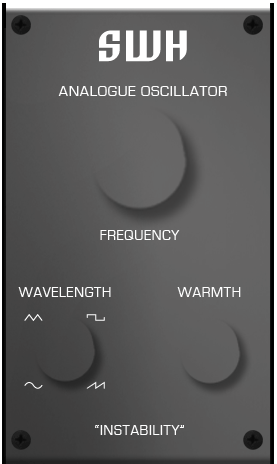
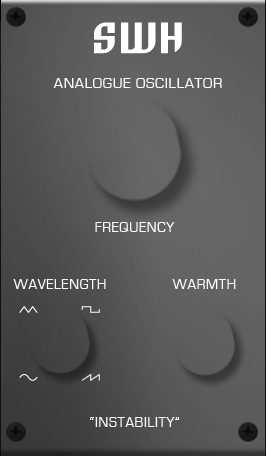
Import fixes from Markus

diff --git a/plugins/delayorama-swh.lv2/modgui/delayorama.css b/plugins/delayorama-swh.lv2/modgui/delayorama.css
@@ -25,10 +25,12 @@
     }
     .swh-delayorama {
         background-image:url(/resources/swh_delayorama.png{{{ns}}}) !important;
+/*
         background-size: 575px 464px;
-        background-position: 15px top;
-        width: 569px;
-        height: 464px;
+*/
+        width: 565px;
+        height: 456px;
+        border-radius: 0;
     }
      .swh-delayorama .mod-control-group {
       top: 0;
@@ -38,21 +40,21 @@
       position: relative;
      }
     .swh-delayorama .mod-control-group#wet {
-      left: 370px;
-      top: 375px;
+      left: 355px;
+      top: 365px;
       position: absolute;
       width: 70px !important;
       height: 70px !important;
     }
 
     .swh-delayorama .mod-control-group.group1 {
-        margin-top: 126px;
-        margin-left: 26px;
+        margin-top: 119px;
+        margin-left: 24px;
         float: left;
         width: 217px !important;
     }
     .swh-delayorama .mod-control-group.group2 {
-        margin-top: 126px;
+        margin-top: 119px;
         margin-left: 23px;
         float: left;
         width: 255px !important;
@@ -111,7 +113,7 @@
       height: 20px;
       width: 50px;
       left: 275px;
-      top: 80px;
+      top: 72px;
 
       overflow: hidden;
     }

diff --git a/plugins/analogue_osc-swh.lv2/modgui/swh_oscillator.css b/plugins/analogue_osc-swh.lv2/modgui/swh_oscillator.css
@@ -28,11 +28,9 @@
     }
     .swh-oscillator {
         background-image:url(/resources/swh_oscillator.png{{{ns}}}) !important;
-        background-size: auto 464px;
         background-repeat: no-repeat;
-        background-position: 15px top;
-        width: 277px;
-        height: 464px;
+        width: 266px;
+        height: 456px;
     }
     .left {
       float: left !important;
@@ -101,7 +99,7 @@
     .swh-oscillator .mod-control-group.top {
       width: 108px !important;
       margin: auto;
-      margin-top: 105px !important;
+      margin-top: 96px !important;
     }
     .swh-oscillator .mod-control-group.bottom {
 width: 215px !important;
@@ -150,7 +148,7 @@ margin: -5px auto;
         cursor: pointer;
         height: 77px;
         width: 43px;
-        left: 60px !important;
+        left: 45px !important;
         position: absolute;
         z-index: 100
     }
@@ -178,7 +176,6 @@ margin: -5px auto;
     }
     .swh-oscillator .mod-pedal-output {
         top: 120px;
-        right: -41px
     }
     .swh-oscillator .mod-pedal-output>*  {
         margin-bottom: 75px !important;

diff --git a/plugins/tape_delay-swh.lv2/modgui/icon-tape-delay-simulation.html b/plugins/tape_delay-swh.lv2/modgui/icon-tape-delay-simulation.html
@@ -91,6 +91,7 @@
         background-size:461px 508px;
         width: 461px;
         height: 508px;
+        border-radius: 6px;
     }
     .swh-tapedelay .mod-control-group {
         top: 134px;
@@ -123,7 +124,7 @@
         cursor:pointer;
         height:66px;
         width: 66px;
-        left: 211px !important;
+        left: 197px !important;
         position:absolute;
     }
     .swh-tapedelay .mod-knob-value {
